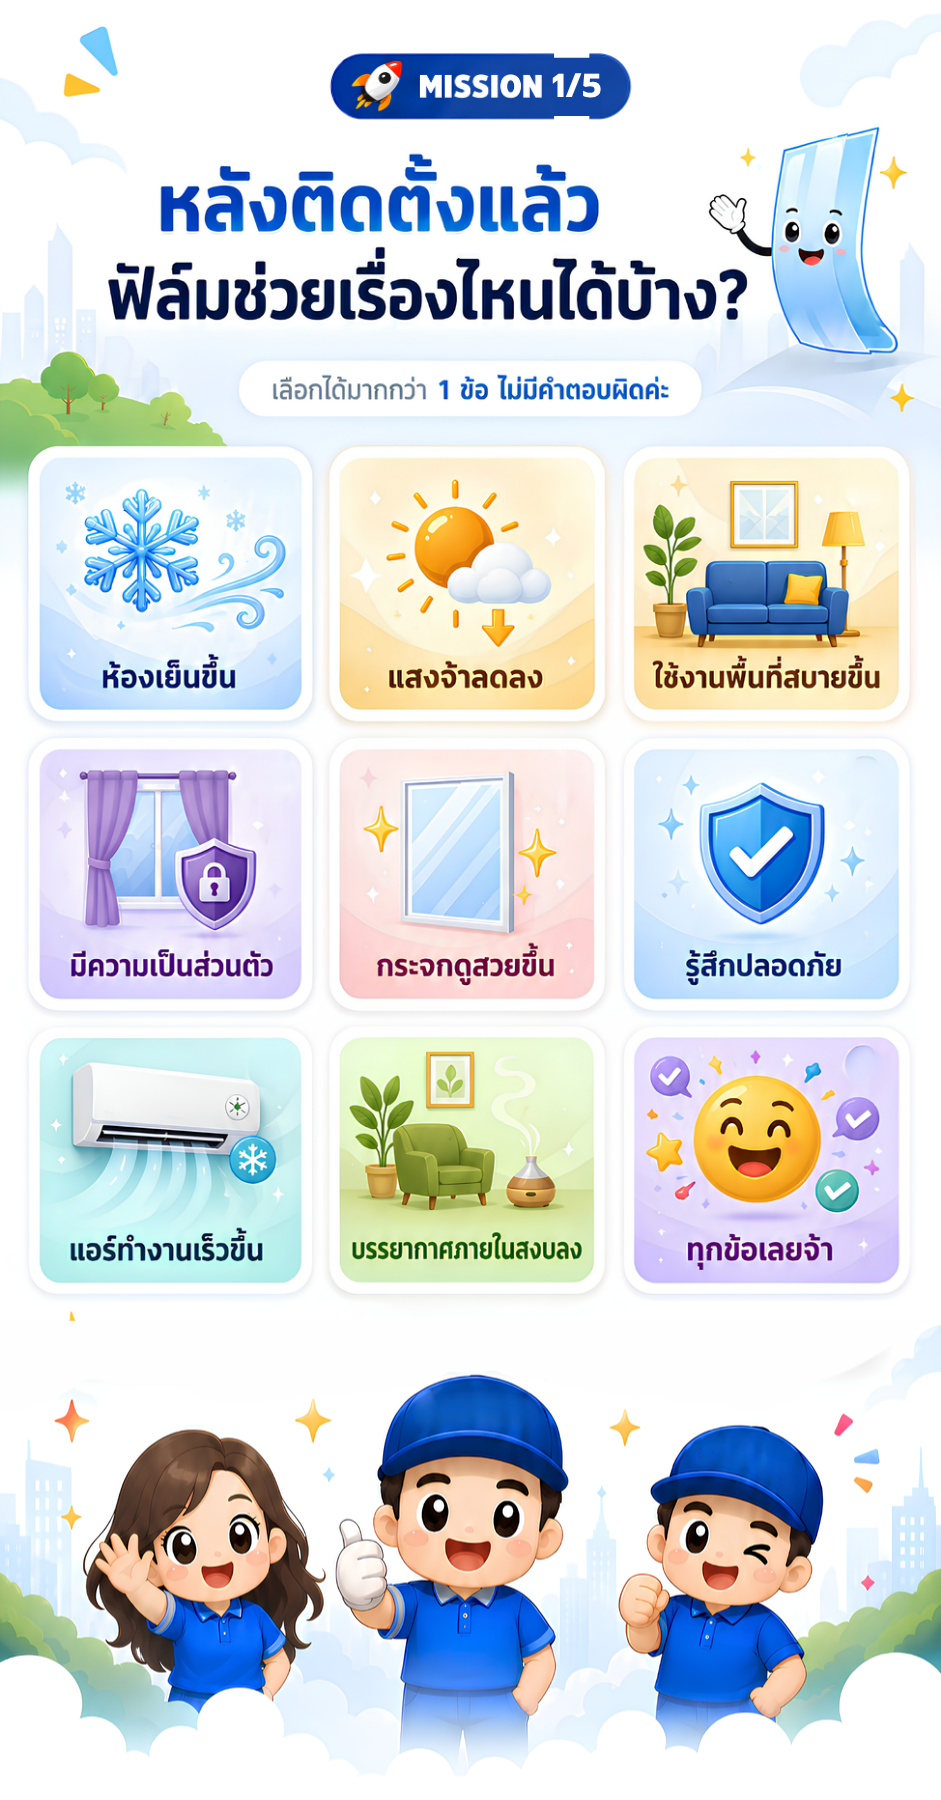
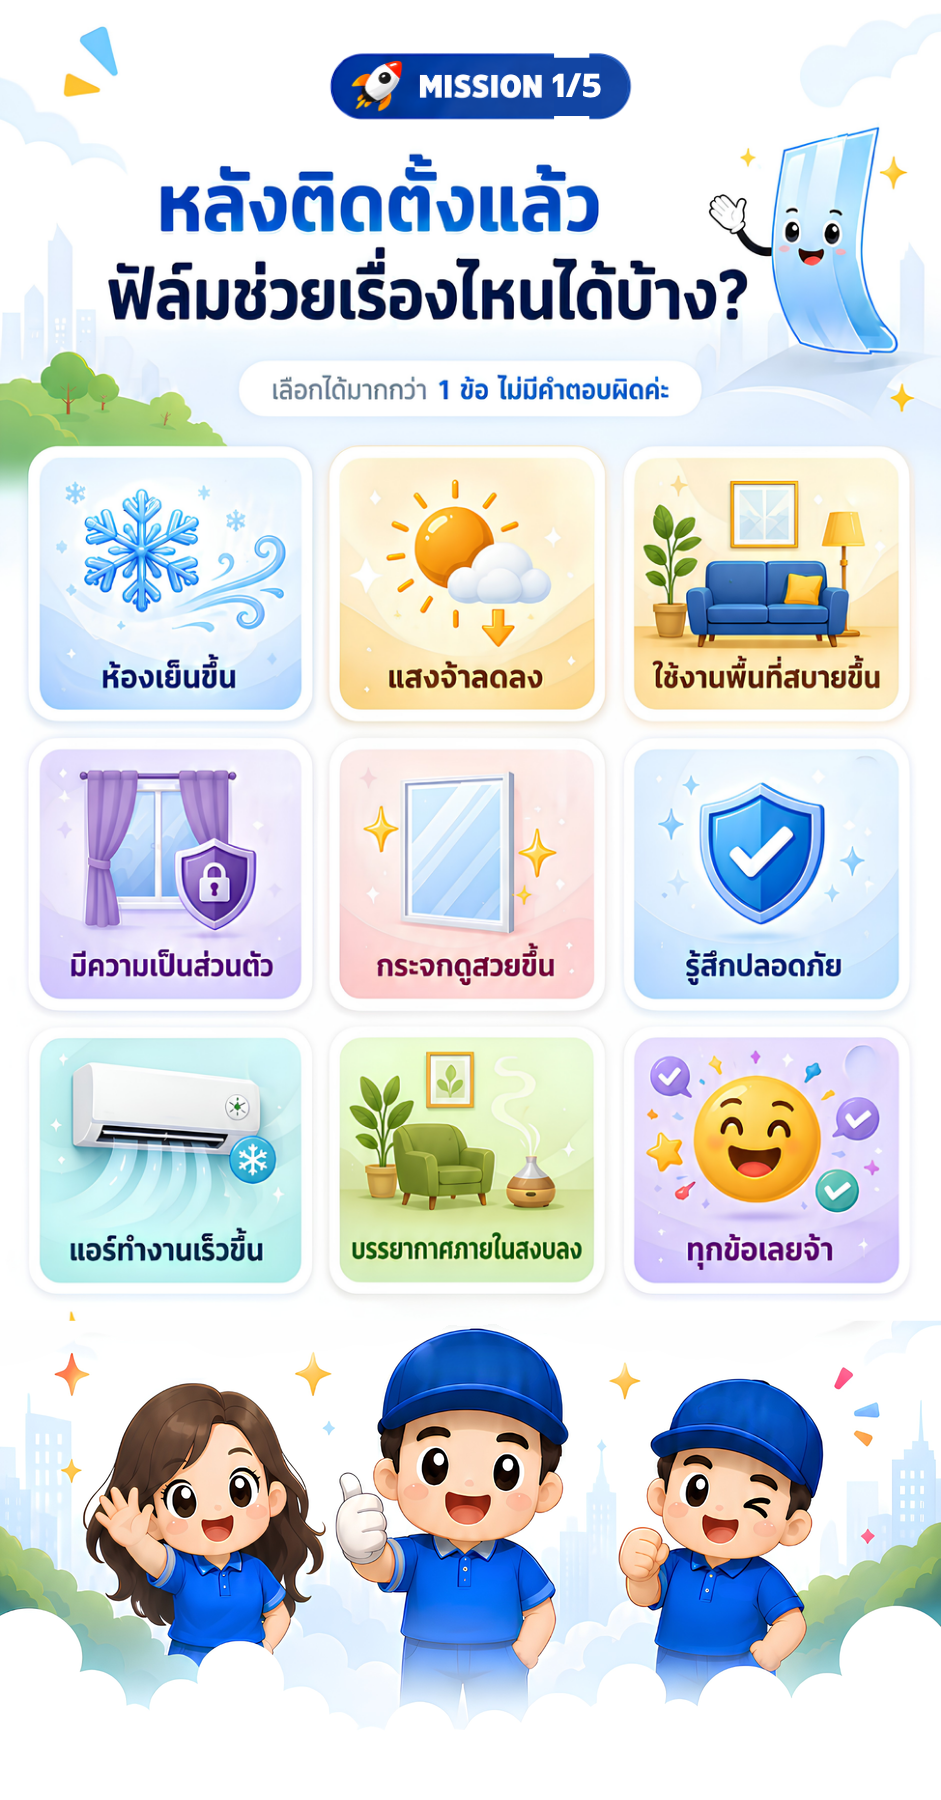
Add alert on copy fail for diagnostics

Changed region(s): [[0.0, 0.7156, 1.0, 0.9956]]

diff --git a/admin/app.js b/admin/app.js
@@ -772,10 +772,9 @@ function handleDrop(e, targetStatus) {
     updateCustomerStatus(customerId, targetStatus);
 }
 
-// Quick status change helper (when sending LINE)
 function markAsSent(id) {
     const customer = state.customers.find(c => c.id === id);
-    if (customer && customer.status === 'Unsent') {
+    if (customer && (!customer.status || customer.status === 'Unsent')) {
         updateCustomerStatus(id, 'Sent');
     }
 }
@@ -803,6 +802,7 @@ function copySurveyLink(id, btn) {
         }, 1000);
     }).catch(err => {
         console.error('Could not copy link:', err);
+        alert('Copy failed: ' + err.message + '\nnavigator.clipboard: ' + !!navigator.clipboard);
         showToast('เกิดข้อผิดพลาดในการคัดลอกลิงก์', 'error');
     });
 }
@@ -910,6 +910,7 @@ function openCustomerDrawer(id) {
             }, 1000);
         }).catch(err => {
             console.error('Could not copy link:', err);
+            alert('Copy failed: ' + err.message + '\nnavigator.clipboard: ' + !!navigator.clipboard);
             showToast('เกิดข้อผิดพลาดในการคัดลอกลิงก์', 'error');
         });
     };
@@ -1531,6 +1532,7 @@ function copyToClipboard(text, btn, id = null) {
         }, 1000);
     }).catch(err => {
         console.error('Could not copy text: ', err);
+        alert('Copy failed: ' + err.message + '\nnavigator.clipboard: ' + !!navigator.clipboard);
         showToast('เกิดข้อผิดพลาดในการคัดลอกลิงก์', 'error');
     });
 }